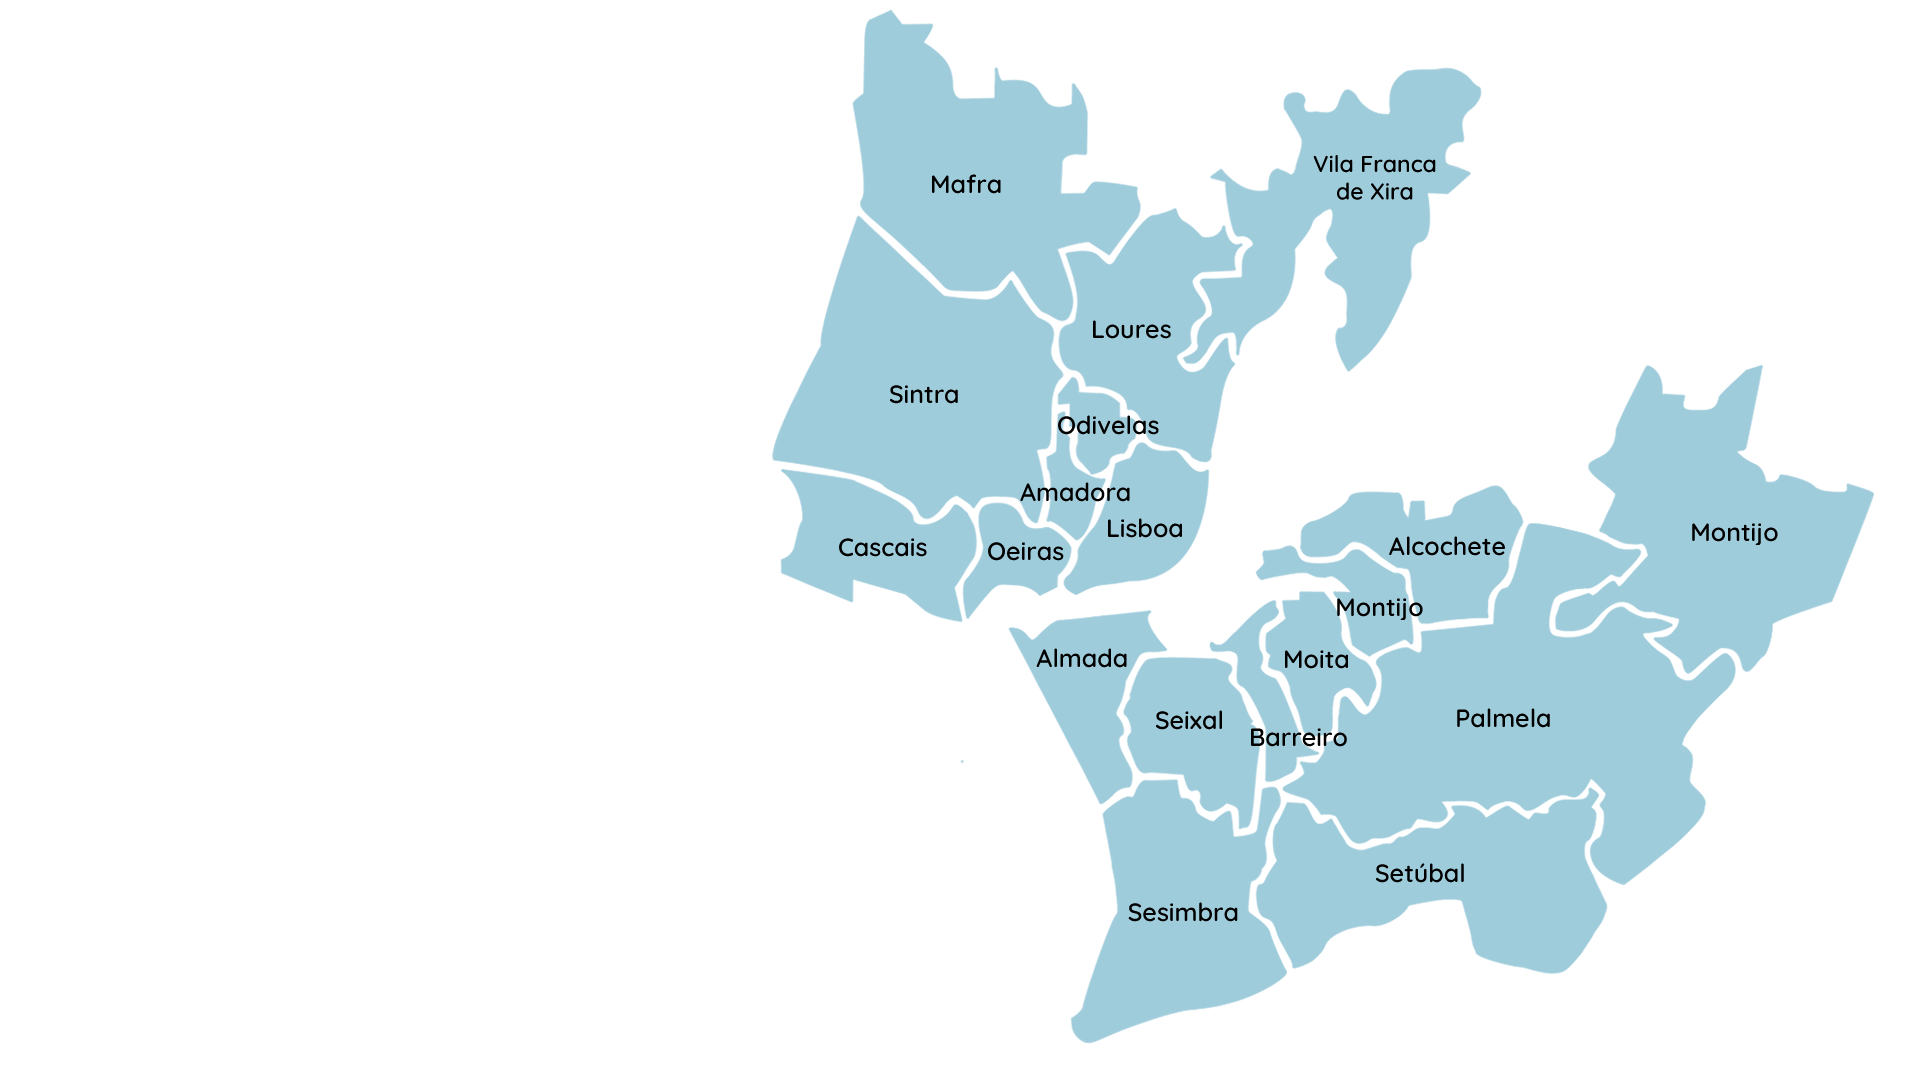
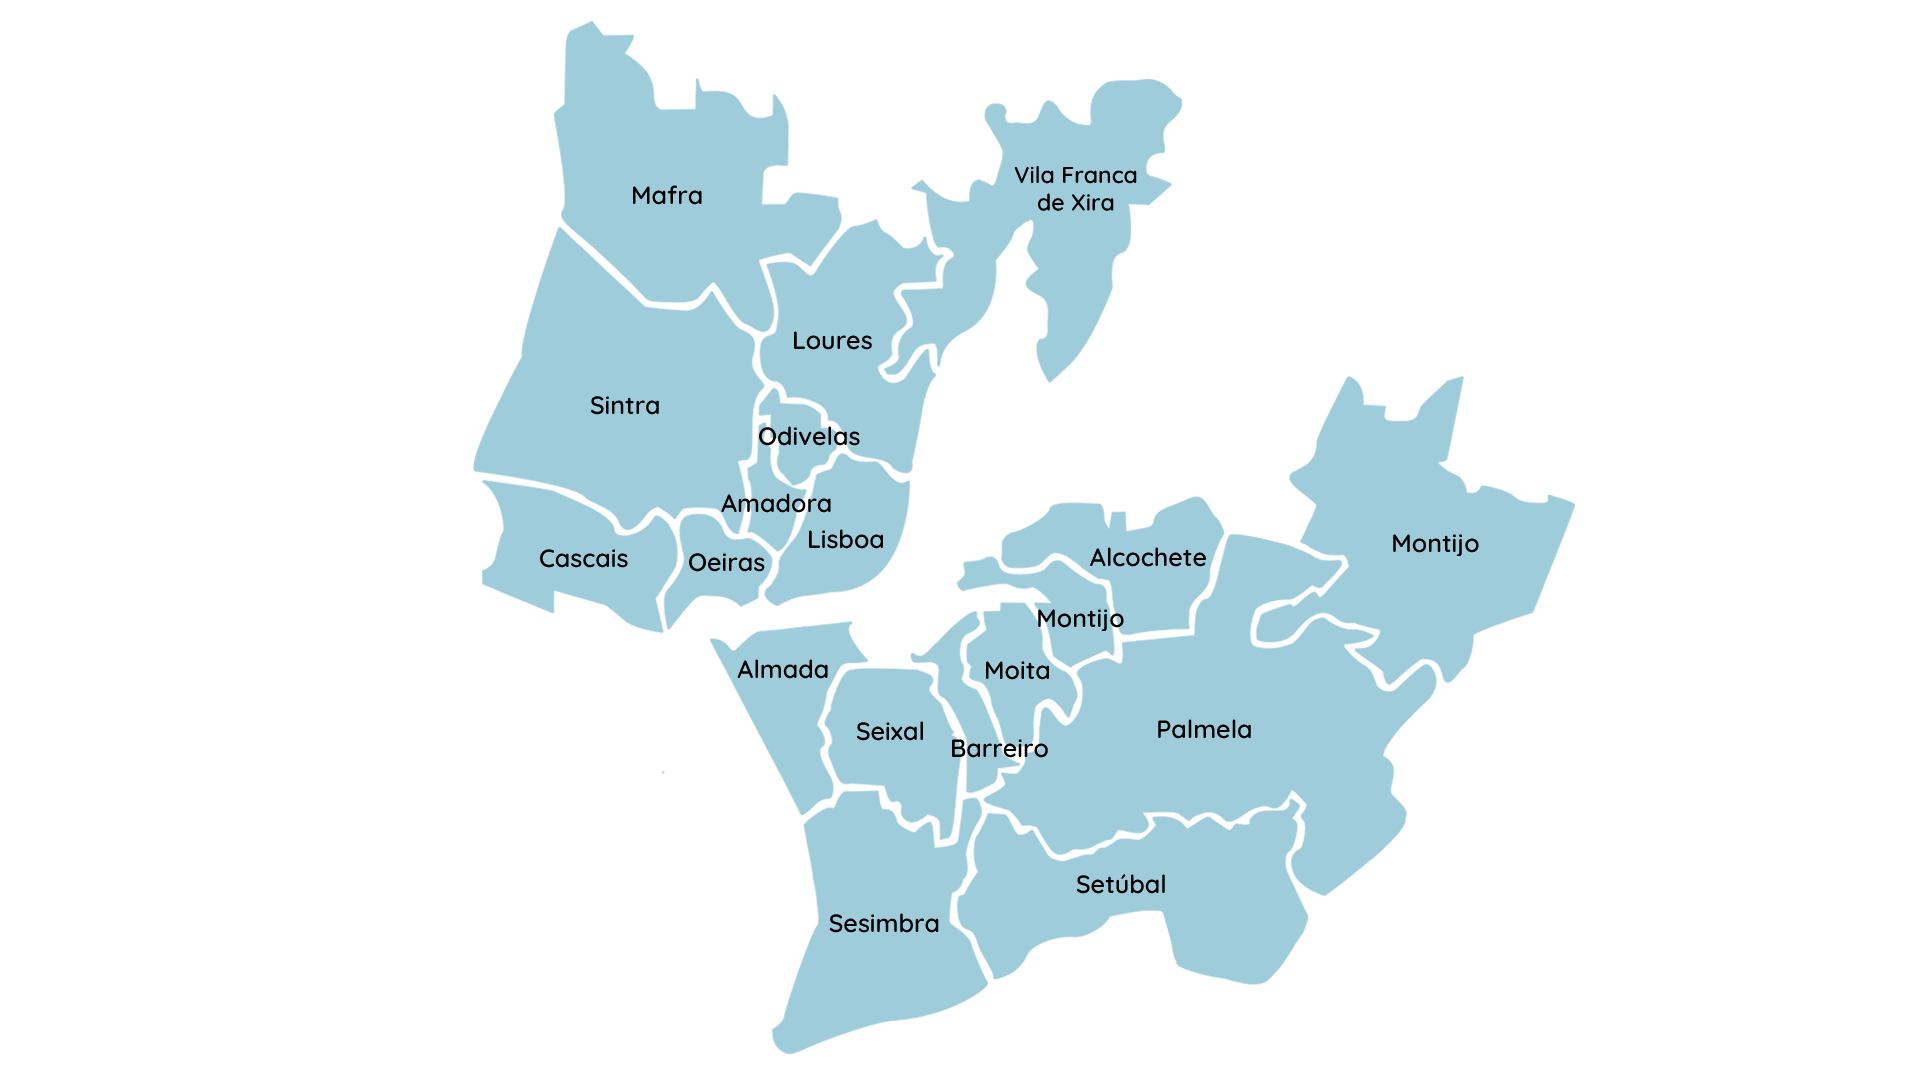
Add service location map

Changed region(s): [[0.25, 0.0, 1.0, 0.9778]]

diff --git a/app/page.tsx b/app/page.tsx
@@ -100,21 +100,6 @@ const ProcedureSection = ({ bgColor }: GeneralComponentProps) => {
   );
 };
 
-// export async function getStaticProps() {
-//   const {
-//     testimonials,
-//     setTestimonials,
-//     // acceptedTestimonialsIds,
-//     setAcceptedTestimonialIds,
-//     setHighlightedTestimonials,
-//   } = useGlobalContext();
-
-//   const data = await getTestimonials();
-//   setTestimonials(data);
-//   getTestimonialsIds(testimonials, setAcceptedTestimonialIds);
-//   getHighlightedTestimonialsIds(testimonials, setHighlightedTestimonials);
-// }
-
 export default function Home() {
   const { acceptedTestimonialsIds } = useGlobalContext();
 
@@ -129,7 +114,26 @@ export default function Home() {
           items={SPECIALTIES}
         />
       </Container>
-      <Carousel cardIds={acceptedTestimonialsIds} />
+      <Container maxWidth={'100%'}>
+        <Container maxWidth={'1120px'}>
+          <Stack
+            py={12}
+            alignItems={'center'}
+            spacing={{ base: 6, lg: '95px' }}
+          >
+            <Heading as={'h2'} variant={{ base: 'header2', lg: 'header1' }}>
+              Zona de Actuação
+            </Heading>
+            <Image
+              src='/images/home-page/mapa-actuacao.png'
+              alt='Mapa de actuação'
+            />
+          </Stack>
+        </Container>
+      </Container>
+      <Container maxWidth={'100%'} bgColor={'pastelBlue'}>
+        <Carousel cardIds={acceptedTestimonialsIds} />
+      </Container>
     </>
   );
 }
